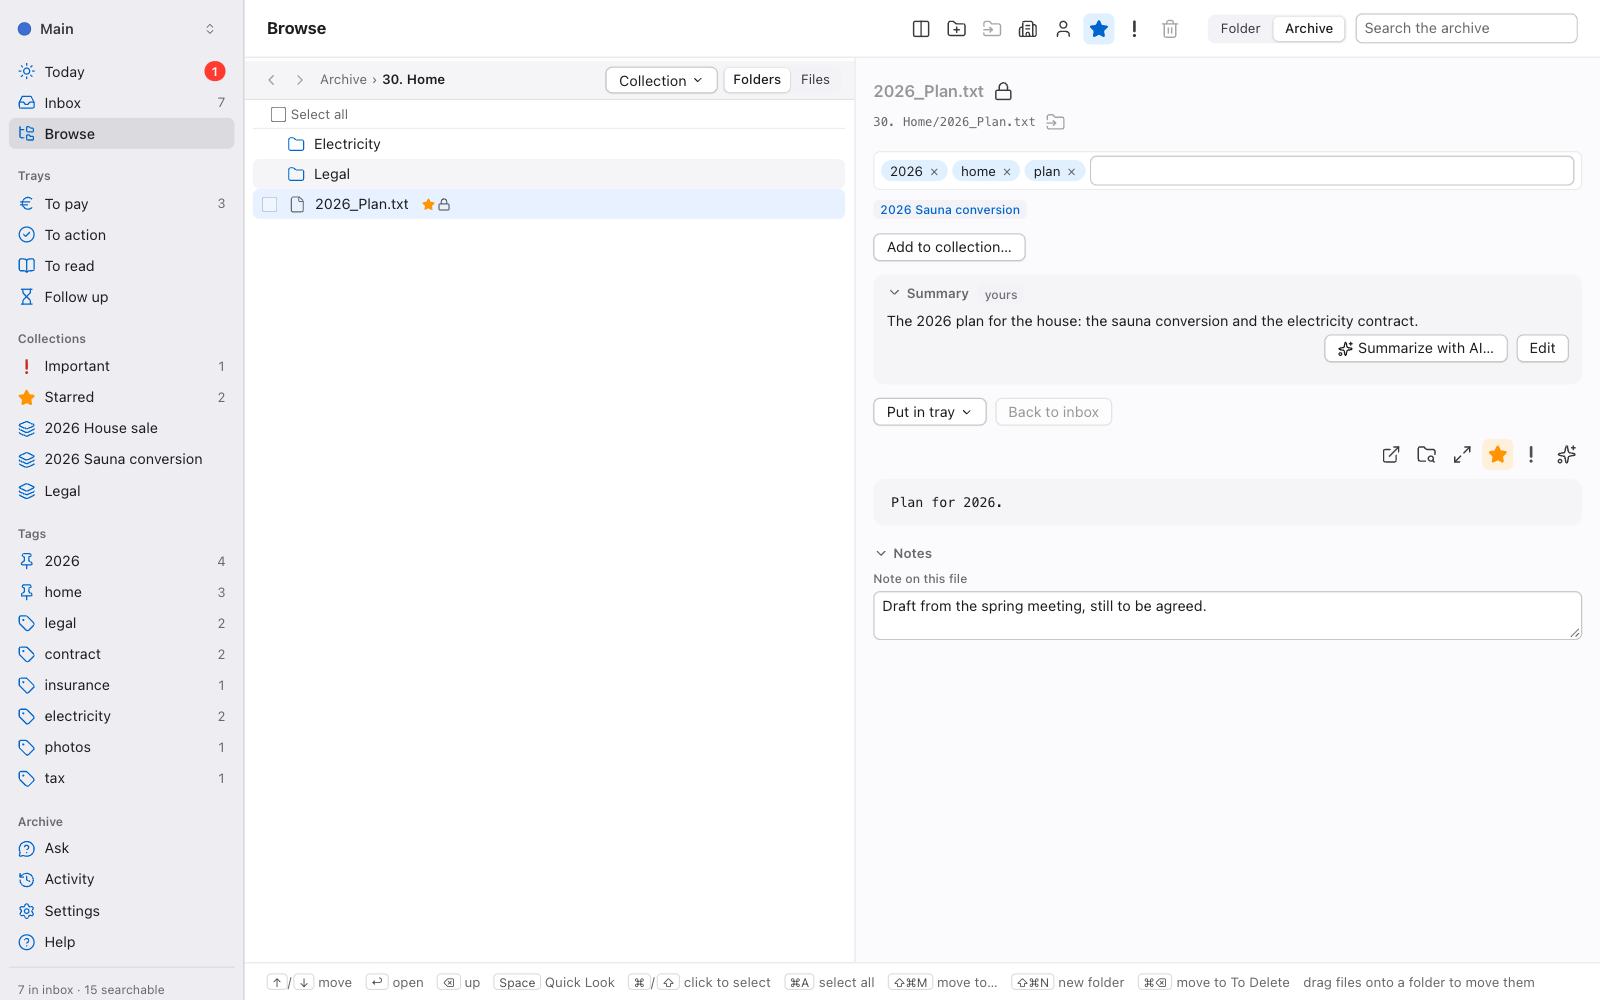
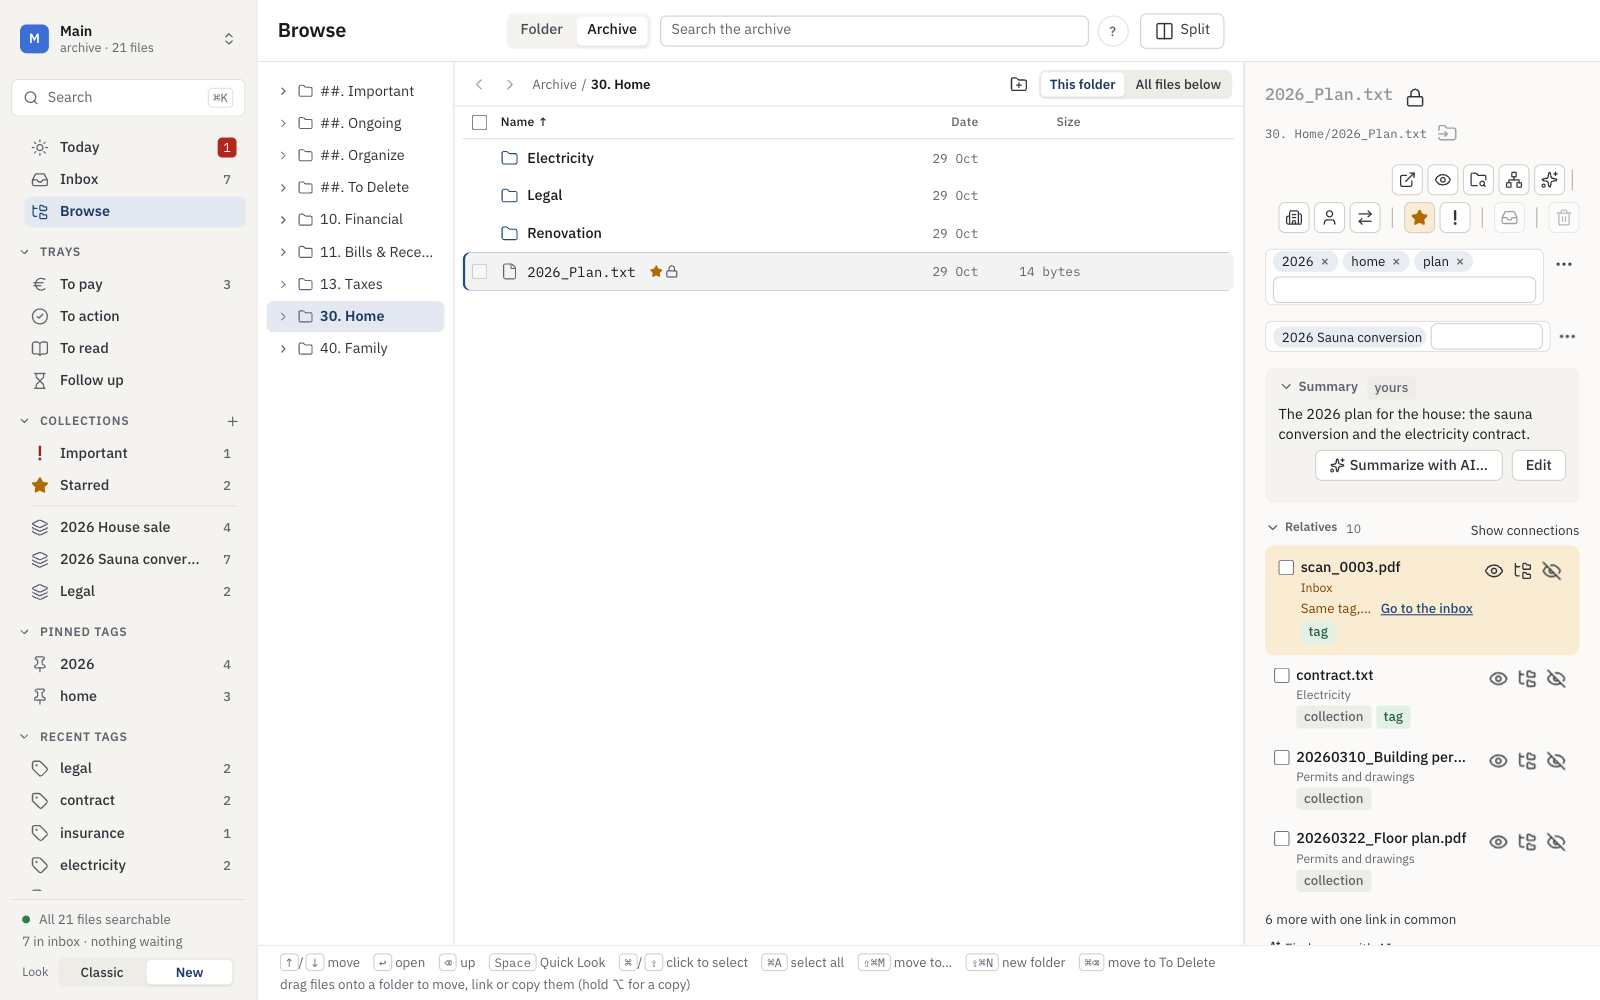
docs: README screenshots in the New look, with Relatives
Every gallery shot is retaken in the New look, and Relatives gets two:
the file panel's list and the Show connections window. Filing rules and
File N marked are dropped. The screenshot scripts sign in with the demo's
API token, follow the demo's current file ids and the New look's controls,
and stage the water bill rule with the others.

diff --git a/scripts/screenshots/stage.py b/scripts/screenshots/stage.py
@@ -6,15 +6,12 @@ It talks only to the demo server on localhost:8766, never to a real archive.
 
     cd backend && uv run python -m dam.demo /tmp/dam-shots
     uv run dam --data-dir /tmp/dam-shots/data serve --no-open --port 8766
+    export DAM_TOKEN=$(cat /tmp/dam-shots/data/api-token)  # the demo's sign-in token
     python3 scripts/screenshots/stage.py        # once, on the fresh demo
     uv run --no-project --with playwright python scripts/screenshots/shoot.py docs/images
-    python3 scripts/screenshots/stage.py codes  # last: files into the code folders
-    uv run --no-project --with playwright python scripts/screenshots/shoot.py docs/images filing-codes rules
     uv run --no-project --with playwright python scripts/screenshots/social.py docs/images
 
-The ``codes`` step moves inbox files into the filing codes' folders (for the File N marked
-shot) and adds two rules (shown in the rules shot), which changes every other inbox view, so
-it comes after the other shots.
+The screenshots show the New look.
 
 ``shoot.py`` uses the installed Google Chrome (``channel="chrome"``).
 """
@@ -23,14 +20,17 @@ import json
 import sys
 import time
 import urllib.error
+import os
 import urllib.request
 
 BASE = "http://localhost:8766"
+# the demo server's API token (its data folder's api-token file): every API call needs it
+TOKEN = os.environ.get("DAM_TOKEN") or sys.exit("set DAM_TOKEN to the demo's api-token")
 
 
 def call(method: str, path: str, body: dict | None = None, fail: bool = True):
     data = None if body is None else json.dumps(body).encode()
-    req = urllib.request.Request(BASE + path, data=data, method=method, headers={"Content-Type": "application/json", "Origin": BASE})
+    req = urllib.request.Request(BASE + path, data=data, method=method, headers={"Content-Type": "application/json", "Origin": BASE, "X-Dam-Token": TOKEN})
     try:
         with urllib.request.urlopen(req) as r:
             raw = r.read()
@@ -62,38 +62,6 @@ def wait_idle(reminders: bool = True) -> None:
     sys.exit("the demo did not settle within four minutes")
 
 
-def stage_codes() -> None:
-    """Make the code folders in the inbox and put some inbox files in them, so they carry
-    a filing code and the File N marked panel has rows."""
-    # two rules give the bills a folder, so those rows are ready to tick (the water bill's
-    # is made from its letterhead, as the boxes shot shows)
-    inbox = "##. Organize"
-    call("PUT", "/api/rules/vesilaitos", {
-        "id": "vesilaitos",
-        "when": {"folder_is": inbox, "zones": [{"box": [0.05, 0.06, 0.6, 0.14], "text_contains": ["vesilaitos"], "match": "word_start"}]},
-        "then": {"folder": "30. Home", "tags": ["water"]},
-    })
-    call("PUT", "/api/rules/sahkoyhtio", {
-        "id": "sahkoyhtio",
-        "when": {"folder_is": inbox, "text_contains": ["sahkoyhtio"]},
-        "then": {"folder": "30. Home/Electricity", "tags": ["electricity"]},
-    })
-    call("POST", "/api/filing-codes/folders")
-    for drive_ids, folder in (
-        (["demo-12", "demo-4"], "To pay"),
-        (["demo-10"], "To read"),
-        (["demo-2", "demo-1"], "File as suggested"),
-    ):
-        call("POST", "/api/browse/move", {"drive_ids": drive_ids, "folder": f"{inbox}/{folder}"})
-    print("files put in the code folders")
-
-
-if sys.argv[1:] == ["codes"]:
-    stage_codes()
-    wait_idle()
-    sys.exit(0)
-
-
 def convert(kind: str, body: dict) -> None:
     left = {e["rel"] for e in call("GET", f"/api/{kind}/entries") if not e.get("managed")}
     if body["rel"] not in left:
@@ -115,7 +83,7 @@ def wait_read(drive_ids: list[str]) -> None:
     sys.exit(f"the demo files {drive_ids} were not read within three minutes")
 
 
-wait_read(["demo-12", "demo-4", "demo-3"])
+wait_read(["demo-18", "demo-4", "demo-3"])
 
 # Ongoing: two collections, two stars (as in the old Activity shot)
 convert("ongoing", {"rel": "##. Ongoing/2026 Sauna conversion", "collection": "2026 Sauna conversion"})
@@ -126,7 +94,7 @@ convert("important", {"rel": "##. Important/passport.pdf", "destination": "40. F
 
 # To pay: three bills with a payee and a title
 BILLS = [
-    ("demo-12", "Water bill — Q4", "Example Water Co"),
+    ("demo-18", "Water bill — Q4", "Example Water Co"),
     ("demo-4", "Electricity — September", "Northpower"),
     ("demo-3", "Home insurance", "Northwind Insurance"),
 ]
@@ -146,15 +114,15 @@ print("excluded folders set")
 
 # Tags: a few tagged files, a group with a pinned tag (sidebar Tags section, Tags screen)
 FILE_TAGS = {
-    "demo-15": ["plan", "2026", "home"],
+    "demo-21": ["plan", "2026", "home"],
     "demo-11": ["electricity", "contract", "home"],
     "demo-5": ["bank", "2026"],
     "demo-6": ["tax", "2026"],
     "demo-9": ["photos", "2026"],
     "demo-4": ["electricity"],
     "demo-3": ["insurance", "home"],
-    "demo-13": ["legal", "contract"],
-    "demo-14": ["legal"],
+    "demo-19": ["legal", "contract"],
+    "demo-20": ["legal"],
 }
 for drive_id, tags in FILE_TAGS.items():
     call("PUT", f"/api/files/{drive_id}/tags", {"tags": tags})
@@ -189,8 +157,14 @@ rule = {
     "then": {"folder": "10. Financial/Banks", "tags": ["bank"]},
 }
 call("PUT", "/api/rules/northbank", rule)
-print("rule saved")
-WATER = "demo-12"
+# the water bill's letterhead (as the boxes shot draws it) gives the inbox shot its folder
+call("PUT", "/api/rules/vesilaitos", {
+    "id": "vesilaitos",
+    "when": {"folder_is": "##. Organize", "zones": [{"box": [0.05, 0.06, 0.6, 0.14], "text_contains": ["vesilaitos"], "match": "word_start"}]},
+    "then": {"folder": "30. Home", "tags": ["water"]},
+})
+print("rules saved")
+WATER = "demo-18"
 
 # Notes, checklists and a summary, so the row icons show. The files were just moved: a
 # summary saved before they are read again would show as outdated.
@@ -199,15 +173,15 @@ call("PUT", f"/api/notes/item/{ITEM_IDS['demo-4']}", {"text": "Ask Northpower wh
 for text in ("Compare with last year's bill", "Call Northpower about the meter reading"):
     call("POST", f"/api/checklist/item/{ITEM_IDS['demo-4']}", {"text": text})
 call("POST", f"/api/checklist/file/{WATER}", {"text": "Check the reference number before paying"})
-call("POST", "/api/checklist/file/demo-15", {"text": "Send the plan to the architect"})
-call("PUT", "/api/notes/file/demo-15", {"text": "Draft from the spring meeting, still to be agreed."})
-call("PUT", "/api/files/demo-15/summary", {"source": "user", "summary": "The 2026 plan for the house: the sauna conversion and the electricity contract.", "key_facts": [], "replace": True})
+call("POST", "/api/checklist/file/demo-21", {"text": "Send the plan to the architect"})
+call("PUT", "/api/notes/file/demo-21", {"text": "Draft from the spring meeting, still to be agreed."})
+call("PUT", "/api/files/demo-21/summary", {"source": "user", "summary": "The 2026 plan for the house: the sauna conversion and the electricity contract.", "key_facts": [], "replace": True})
 call("PUT", "/api/files/demo-11/summary", {"source": "user", "summary": "Fixed-price electricity contract for the house.", "key_facts": [], "replace": True})
 print("notes, checklists and summaries added")
 
 # A locked file (shown with its lock in Browse)
-call("POST", "/api/files/demo-15/lock")
-print("locked demo-15")
+call("POST", "/api/files/demo-21/lock")
+print("locked demo-21")
 
 wait_idle()
 print("settled")

diff --git a/scripts/screenshots/shoot.py b/scripts/screenshots/shoot.py
@@ -1,10 +1,11 @@
-"""The README screenshots, light and dark, from the staged demo server (see stage.py):
-1600x1000 PNGs written to the folder given; more arguments take only those shots (the
-shots taken only when named are in AFTER_CODES, and ``sticker-sheet``).
+"""The README screenshots, light and dark, in the New look, from the staged demo server
+(see stage.py): 1600x1000 PNGs written to the folder given; more arguments take only those
+shots (``sticker-sheet`` is taken only when named). ``DAM_TOKEN`` is the demo's api-token.
 
     uv run --no-project --with playwright python scripts/screenshots/shoot.py docs/images [inbox ...]
 """
 
+import os
 import re
 import sys
 from datetime import UTC, datetime
@@ -14,6 +15,7 @@ from playwright.sync_api import TimeoutError as PlaywrightTimeoutError
 from playwright.sync_api import sync_playwright
 
 BASE = "http://localhost:8766"
+TOKEN = os.environ.get("DAM_TOKEN") or sys.exit("set DAM_TOKEN to the demo's api-token")
 OUT = Path(sys.argv[1])
 ONLY = set(sys.argv[2:])
 
@@ -47,7 +49,7 @@ def expand(page):
 
 
 def ai(page):
-    page.get_by_role("button", name="AI", exact=True).click()
+    page.get_by_role("button", name="AI calls", exact=True).click()
     page.wait_for_selector("[aria-label='Excluded folders']")
 
 
@@ -109,51 +111,47 @@ def rule_sheet(page):
     dialog.get_by_label("Document is in folder").fill("")
     more.click()
     dialog.get_by_label("Folder", exact=True).fill("13. Taxes")
-    tags = dialog.get_by_label("Tags")
+    tags = dialog.get_by_placeholder("Add a tag")
     tags.fill("tax")
     tags.press("Enter")
     dialog.get_by_text(re.compile(r"Matches \d+ documents? you filed before")).wait_for(timeout=90000)
-    dialog.get_by_role("button", name="Save", exact=True).wait_for()
+    dialog.get_by_role("button", name=re.compile(r"^Save")).first.wait_for()
     page.evaluate("document.activeElement.blur()")  # no focus ring on the tags field
 
 
-AFTER_CODES = {"filing-codes", "rules"}  # taken only when named: see stage.py
+def connections(page):
+    """The Relatives window, with the plan (two links in common) pointed at, so the side
+    panel says what the two files share."""
+    page.get_by_role("button", name="Show connections").click()
+    dialog = page.get_by_role("dialog")
+    dialog.get_by_text("In common", exact=True).wait_for()
+    page.keyboard.press("ArrowDown")
+
+
 TALL = (1920, 1200)
 TALL_SHOTS = {"rule-sheet"}
 
 
-def rules_settings(page):
-    page.get_by_role("button", name="Filing rules").or_(page.get_by_text("Filing rules", exact=True)).first.click()
-    page.get_by_text("Address area (percent of page 1)").wait_for()
-    page.get_by_role("button", name="Add a person").scroll_into_view_if_needed()
-
-
-def marked(page):
-    page.get_by_text("Marked files").wait_for()
-    page.get_by_role("button", name=re.compile(r"^File \d+$")).wait_for()
-
-
 SHOTS = {
-    "inbox": ("/inbox?file=demo-12", areas_off),
+    "inbox": ("/inbox?file=demo-18", areas_off),
     "today": ("/", None),
     "paymode": ("/trays/to-pay?item=1", paymode),
-    "browse": ("/browse?path=30.%20Home&select=demo-15", None),
+    "browse": ("/browse?path=30.%20Home&select=demo-21", None),
     "activity": ("/activity", expand),
     "collection": ("/collections/3", areas_off_if_shown),
     "ai-settings": ("/activity", ai),
     "tags": ("/tags", None),
-    "boxes": ("/inbox?file=demo-12", boxes),
+    "relatives": ("/browse?path=30.%20Home%2FElectricity&select=demo-11", None),
+    "connections": ("/browse?path=30.%20Home%2FElectricity&select=demo-11", connections),
+    "boxes": ("/inbox?file=demo-18", boxes),
     "rule-sheet": ("/inbox?file=demo-1", rule_sheet),
-    # after ``stage.py codes`` only (it moves inbox files into the code folders)
-    "filing-codes": ("/inbox?marked=1", marked),
-    "rules": ("/settings", rules_settings),
 }
 
 with sync_playwright() as p:
     browser = p.chromium.launch(channel="chrome")
     for scheme in ("light", "dark"):
         for name, (url, then) in SHOTS.items():
-            if (ONLY and name not in ONLY) or (not ONLY and name in AFTER_CODES):
+            if ONLY and name not in ONLY:
                 continue
             # the rule sheet is tall: a taller window at a smaller scale, same 1600x1000 image
             width, height = TALL if name in TALL_SHOTS else (1440, 900)
@@ -163,7 +161,9 @@ with sync_playwright() as p:
                 color_scheme=scheme,
                 timezone_id=TZ,
             )
+            ctx.add_init_script("localStorage.setItem('dam.style', 'new')")  # the New look
             page = ctx.new_page()
+            page.goto(f"{BASE}/auth?t={TOKEN}")  # signs this context in (a cookie)
             page.goto(BASE + url)
             page.wait_for_load_state("networkidle")
             if then:
@@ -180,6 +180,7 @@ with sync_playwright() as p:
         # the printable sticker sheet (plain paper), the top of the page at 800 px wide, doubled
         ctx = browser.new_context(viewport={"width": 800, "height": 500}, device_scale_factor=2)
         page = ctx.new_page()
+        page.goto(f"{BASE}/auth?t={TOKEN}")
         page.goto(BASE + "/api/filing-codes/sheet?layout=plain&codes=P:10,A:10,R:10")
         page.wait_for_load_state("networkidle")
         page.screenshot(path=str(OUT / "sticker-sheet.png"))

diff --git a/README.md b/README.md
@@ -54,6 +54,14 @@ without ever deleting a file.
 
 <table>
   <tr>
+    <td><picture><source media="(prefers-color-scheme: dark)" srcset="docs/images/relatives-dark.png"><img alt="Browse, a contract's file panel: its Relatives, best first, with the two bills still in the inbox on orange cards" src="docs/images/relatives-light.png"></picture></td>
+    <td><picture><source media="(prefers-color-scheme: dark)" srcset="docs/images/connections-dark.png"><img alt="Show connections: the contract's relatives by folder with lines to each, and what it has in common with the plan" src="docs/images/connections-light.png"></picture></td>
+  </tr>
+  <tr>
+    <td align="center"><b>Relatives</b>: the files a document belongs with, and why</td>
+    <td align="center"><b>Show connections</b>: the whole family by folder</td>
+  </tr>
+  <tr>
     <td><picture><source media="(prefers-color-scheme: dark)" srcset="docs/images/today-dark.png"><img alt="Today: what is due, what is waiting in the inbox, a search box and the reminders" src="docs/images/today-light.png"></picture></td>
     <td><picture><source media="(prefers-color-scheme: dark)" srcset="docs/images/paymode-dark.png"><img alt="Pay mode: payee, IBAN, reference, amount and a bank barcode in large type" src="docs/images/paymode-light.png"></picture></td>
   </tr>
@@ -62,7 +70,7 @@ without ever deleting a file.
     <td align="center"><b>Pay mode</b>: check the details, scan, done</td>
   </tr>
   <tr>
-    <td><picture><source media="(prefers-color-scheme: dark)" srcset="docs/images/browse-dark.png"><img alt="Browse: folders on the left, and for the selected file its tags, collections, summary, tray, a locked padlock, a preview and notes" src="docs/images/browse-light.png"></picture></td>
+    <td><picture><source media="(prefers-color-scheme: dark)" srcset="docs/images/browse-dark.png"><img alt="Browse: folders on the left, and for the selected file its tags, collection, summary, a locked padlock and its Relatives" src="docs/images/browse-light.png"></picture></td>
     <td><picture><source media="(prefers-color-scheme: dark)" srcset="docs/images/activity-dark.png"><img alt="Activity: every change in plain words, each with its own Undo" src="docs/images/activity-light.png"></picture></td>
   </tr>
   <tr>
@@ -86,22 +94,17 @@ without ever deleting a file.
     <td align="center"><b>Rule sheet</b>: proven against your filed documents first</td>
   </tr>
   <tr>
-    <td><picture><source media="(prefers-color-scheme: dark)" srcset="docs/images/rules-dark.png"><img alt="Settings, Filing rules: the rules made from areas on page 1 above the example rules, and the people list" src="docs/images/rules-light.png"></picture></td>
-    <td><picture><source media="(prefers-color-scheme: dark)" srcset="docs/images/filing-codes-dark.png"><img alt="File N marked: each coded inbox file with its codes, folder, tray and tags; the ones that need a look start unticked" src="docs/images/filing-codes-light.png"></picture></td>
-  </tr>
-  <tr>
-    <td align="center"><b>Filing rules</b>: yours first, and the people they file for</td>
-    <td align="center"><b>File N marked</b>: a whole batch, checked and filed at once</td>
-  </tr>
-  <tr>
     <td><picture><img alt="A sheet of QR stickers for the filing codes P, A and R, each with star and Important tick boxes" src="docs/images/sticker-sheet.png"></picture></td>
-    <td><picture><source media="(prefers-color-scheme: dark)" srcset="docs/images/ai-settings-dark.png"><img alt="Activity, AI: this month's spend, the AI switch and the folders that are never sent" src="docs/images/ai-settings-light.png"></picture></td>
+    <td><picture><source media="(prefers-color-scheme: dark)" srcset="docs/images/ai-settings-dark.png"><img alt="Activity, AI calls: this month's spend, the AI switch and the folders that are never sent" src="docs/images/ai-settings-light.png"></picture></td>
   </tr>
   <tr>
     <td align="center"><b>QR stickers</b>: decide on the paper before you scan</td>
     <td align="center"><b>AI settings</b>: spend, the switch and the folders never sent</td>
   </tr>
 </table>
+
+The screenshots show the New look. dam still opens in the Classic look; switch with
+**Look** at the bottom of the sidebar. Relatives are in the New look only.
 
 ## Quick start
 
